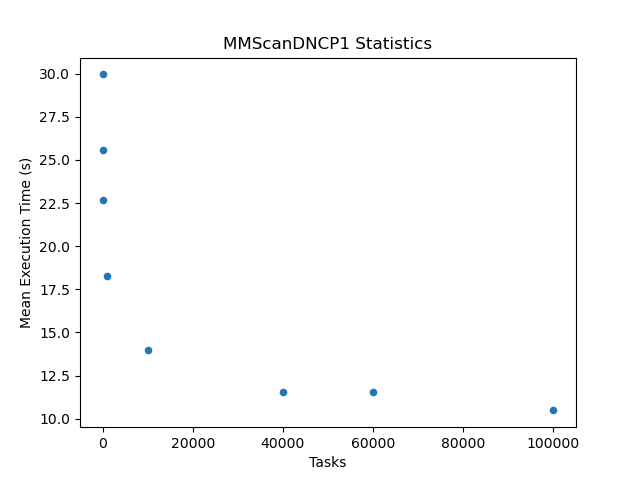
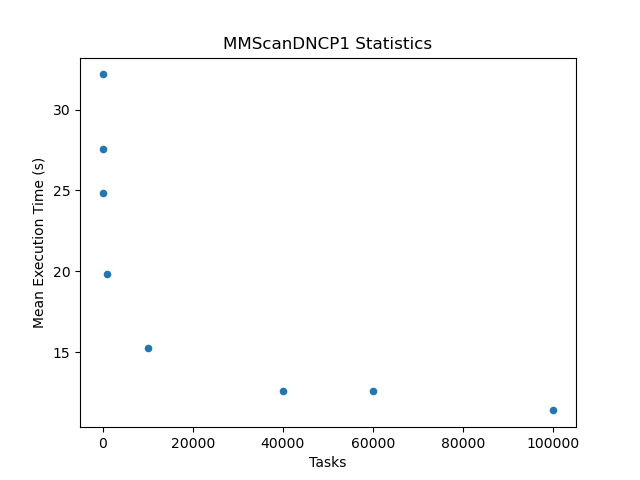
added seq and dnc testers

diff --git a/assignments/2/MMScan-provided/collect_seq_data.py b/assignments/2/MMScan-provided/collect_seq_data.py
@@ -1,0 +1,46 @@
+#!/usr/bin/python3
+
+import getopt, sys
+import re
+import os
+import subprocess
+import pandas as pd
+import matplotlib.pyplot as plt
+import numpy as np
+
+program_name = './MMScanDNC'
+size = 6
+time_token = 'SEQ:'
+
+mean_times = [] # [[threads, mean], ...]
+matrices_list = [10000, 40000, 60000, 100000, 200000, 300000, 500000]
+for matrices in matrices_list: 
+    print("Threads: 16")
+    os.environ['OMP_NUM_THREADS'] = str(16)
+    results = []
+    for i in range(0, 8): 
+        output = subprocess.run([program_name] + (matrices + ' ' + str(size)).split(), stdout=subprocess.PIPE).stdout.decode('utf-8')
+        result = re.search('(?<=' + time_token + ').\S*', output).group(0).strip()
+        print(result)
+        results.append(float(result))
+    results.remove(max(results))
+    results.remove(min(results))
+    mean = sum(results)/len(results)
+    print('Mean:', mean, '\n')
+    mean_times.append((matrices, mean))
+
+data = pd.DataFrame({
+    "Matrices": matrices_list, 
+    "Mean Execution Time (s)": [datum[1] for datum in mean_times]
+})
+
+filename = program_name.split('/')[1] 
+data.to_csv(filename + '.csv', index = False)
+data.plot(x='Matrices', y='Mean Execution Time (s)', kind = 'scatter')
+#plot_multi(data, figsize=(10, 5))
+#plt.xticks(np.arange(8), np.arange(1, 9))
+#plt.subplots_adjust(right=0.8)
+plt.title('MMScanSEQ' + ' Statistics')
+plt.savefig('MMScanSEQ' + '.png')
+plt.show()    
+

diff --git a/assignments/2/MMScan-provided/collect_dnc_data.py b/assignments/2/MMScan-provided/collect_dnc_data.py
@@ -1,0 +1,46 @@
+#!/usr/bin/python3
+
+import getopt, sys
+import re
+import os
+import subprocess
+import pandas as pd
+import matplotlib.pyplot as plt
+import numpy as np
+
+program_name = './MMScanDNC'
+size = 6
+time_token = 'DNC:'
+
+mean_times = [] # [[threads, mean], ...]
+matrices_list = [10000, 40000, 60000, 100000, 200000, 300000, 500000]
+for matrices in matrices_list: 
+    print("Threads: 16")
+    os.environ['OMP_NUM_THREADS'] = str(16)
+    results = []
+    for i in range(0, 8): 
+        output = subprocess.run([program_name] + (matrices + ' ' + str(size)).split(), stdout=subprocess.PIPE).stdout.decode('utf-8')
+        result = re.search('(?<=' + time_token + ').\S*', output).group(0).strip()
+        print(result)
+        results.append(float(result))
+    results.remove(max(results))
+    results.remove(min(results))
+    mean = sum(results)/len(results)
+    print('Mean:', mean, '\n')
+    mean_times.append((matrices, mean))
+
+data = pd.DataFrame({
+    "Matrices": matrices_list, 
+    "Mean Execution Time (s)": [datum[1] for datum in mean_times]
+})
+
+filename = program_name.split('/')[1] 
+data.to_csv(filename + '.csv', index = False)
+data.plot(x='Matrices', y='Mean Execution Time (s)', kind = 'scatter')
+#plot_multi(data, figsize=(10, 5))
+#plt.xticks(np.arange(8), np.arange(1, 9))
+#plt.subplots_adjust(right=0.8)
+plt.title(filename + ' Statistics')
+plt.savefig(filename + '.png')
+plt.show()    
+
